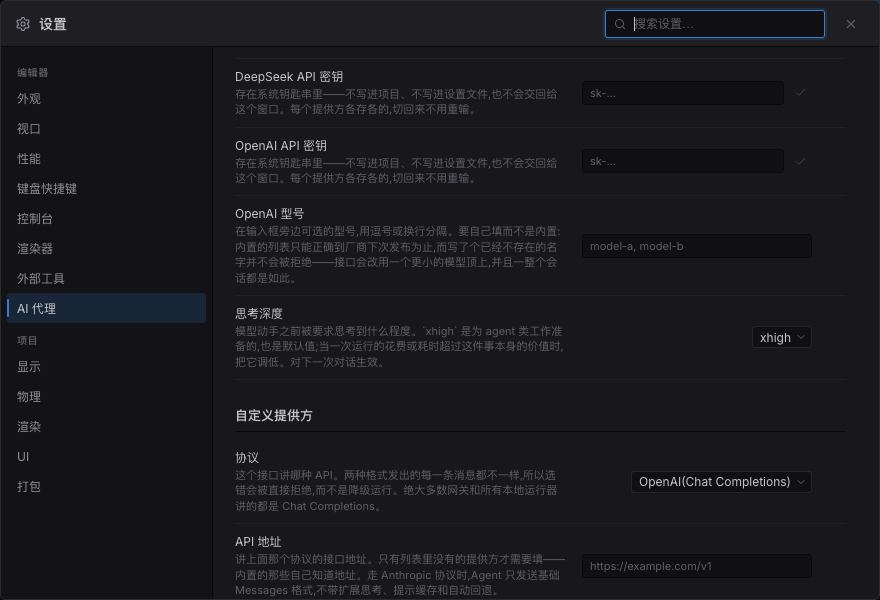
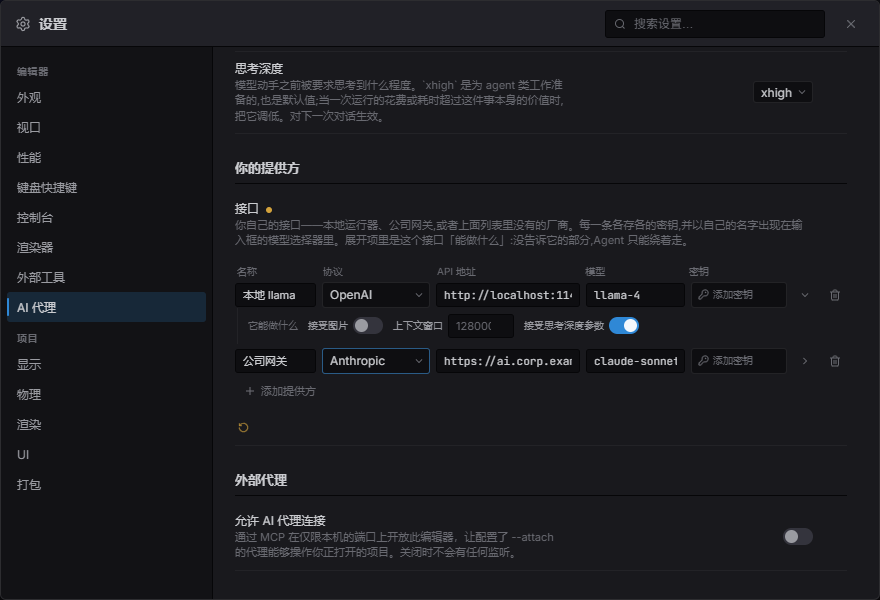
docs(agent): the settings shot showed a provider slot that no longer exists
Both locales still pictured Custom Provider with its Protocol and Endpoint
rows — the shape replaced by the table. A screenshot of a UI that is gone
is worse than none: it is the first thing read on the page, and it teaches
someone to look for a control they will not find.

Re-taken against the table, one row expanded so the capabilities are in
the picture rather than only in the prose beside it.

Taking them showed up something the earlier shots had let pass. A name is
prose, and monospace costs about a fifth of a narrow cell's characters, so
"Local llama" did not fit a column sized for one. Columns can opt out of
it now; identifiers keep it, since a path or a model id is scanned for
shape and lines up better set that way.

diff --git a/desktop/src/settings/types.ts b/desktop/src/settings/types.ts
@@ -190,6 +190,14 @@ export interface ObjectListColumn {
   /** Choices for an `enum` cell. */
   options?: { value: string; label: string }[];
   /**
+   * Set false for a column holding PROSE rather than an identifier.
+   *
+   * A table cell is narrow, and monospace costs about a fifth of its characters
+   * — worth paying where the value is a path, an id or a number a reader scans
+   * for shape, and not worth it for a name someone chose.
+   */
+  mono?: boolean;
+  /**
    * Which credential a `secret` cell holds, derived from the row it sits in.
    *
    * The value never enters the row, the settings file or this process — main

diff --git a/desktop/src/theme/settings.css b/desktop/src/theme/settings.css
@@ -314,6 +314,7 @@
 .set-objlist-fields { display: grid; gap: 6px; align-items: center; }
 .set-objlist-head { font-size: var(--fs-2xs); color: var(--text-mute); padding: 0 2px; }
 .set-objlist .set-str { width: 100%; font-family: var(--mono); }
+.set-objlist .set-str.prose { font-family: var(--font-ui); }
 .set-objlist-row.invalid .set-str { border-color: var(--error); }
 .set-objlist-err { color: var(--error); font-size: var(--fs-2xs); padding: 2px 2px 0; }
 .set-objlist-del,

diff --git a/desktop/src/settings/editorSettings.ts b/desktop/src/settings/editorSettings.ts
@@ -318,7 +318,7 @@ settingsRegistry.register({
   layout: 'block',
   default: [],
   columns: [
-    { key: 'label', label: t('set.agents.col.label'), type: 'text', width: '0.9fr', placeholder: 'Local llama' },
+    { key: 'label', label: t('set.agents.col.label'), type: 'text', width: '0.9fr', mono: false, placeholder: 'Local llama' },
     {
       key: 'protocol',
       label: t('set.agents.col.protocol'),

diff --git a/desktop/src/components/SettingsDialog.tsx b/desktop/src/components/SettingsDialog.tsx
@@ -495,7 +495,7 @@ function ObjectListField({
   }
   return (
     <input
-      className="set-str"
+      className={`set-str${col.mono === false ? ' prose' : ''}`}
       type={col.type === 'number' ? 'number' : 'text'}
       min={col.min}
       spellCheck={false}
